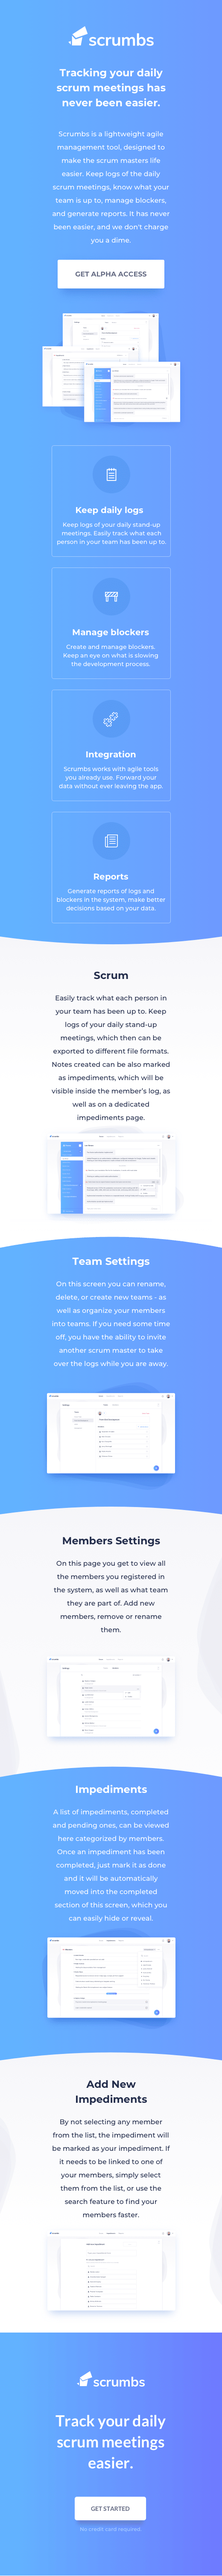
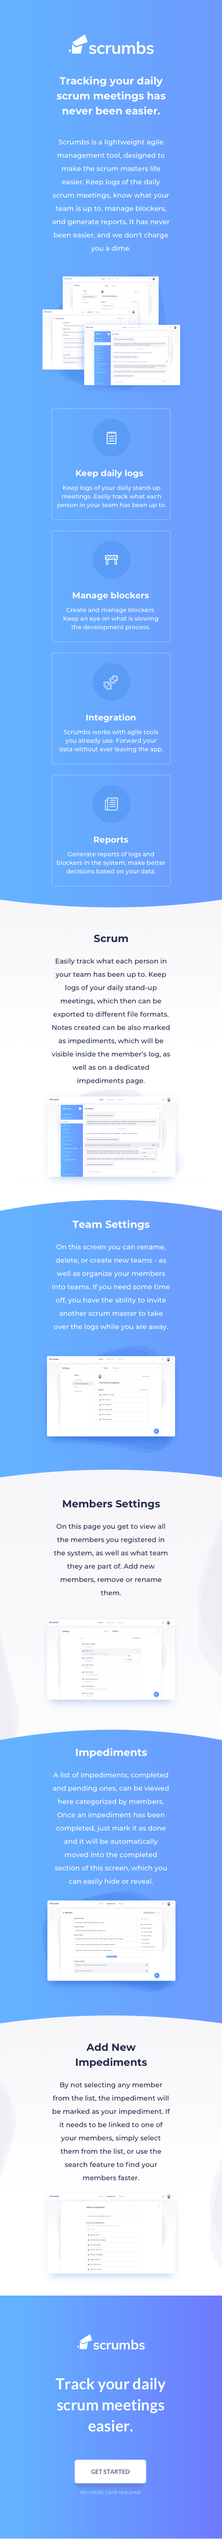
- Project arrows adjusted for mobile: next/previous arrows are visible now - Scrum project images modified: removed Get early access button

Changed region(s): [[0.0, 0.0, 1.0, 0.9681]]

diff --git a/public/css/scrumbs-stylesheet.css b/public/css/scrumbs-stylesheet.css
@@ -5,7 +5,9 @@
 .previous{left:-70px;position:fixed;transition:left ease-in-out .2s,opacity ease-in-out .2s}
 .previous:hover{left:-50px;opacity:.4;background-image:url("../public/images/arrow-left.svg");background-repeat:no-repeat;background-size:15px;background-position-x:60px;background-position-y:38px}
 .arrow-left{width:15px;margin-left:20px;margin-top:38px}.scrumbs-presentation{background:url("../public/project-images/Scrumbs-1229px-2880px.png") no-repeat top center;width:100%;height:7054px}
-@media only screen and (max-width:1230px){.scrumbs-presentation{background:url("../public/project-images/Scrumbs-1024px-1230px.png") no-repeat top center;height:6468px}
-}@media only screen and (max-width:860px){.scrumbs-presentation{background:url("../public/project-images/Scrumbs-860px.png") no-repeat top center;height:6084px}
-}@media only screen and (max-width:519px){.scrumbs-presentation{background:url("../public/project-images/Scrumbs - 520px.png") no-repeat top center;height:6010px}
+@media only screen and (max-width:1230px){.scrumbs-presentation{background:url("../public/project-images/Scrumbs-1024px-1230px.png") no-repeat top center;height:6318px}
+}@media only screen and (max-width:860px){.scrumbs-presentation{background:url("../public/project-images/Scrumbs-860px.png") no-repeat top center;height:5968px}
+.next{right:-70px;opacity:.2;background-image:url(../public/images/arrow-right.svg);background-repeat:no-repeat;background-size:10px;background-position-x:12px;background-position-y:43px}
+.previous{left:-70px;opacity:.2;background-image:url(../public/images/arrow-left.svg);background-repeat:no-repeat;background-size:10px;background-position-x:78px;background-position-y:43px}
+}@media only screen and (max-width:519px){.scrumbs-presentation{background:url("../public/project-images/Scrumbs - 520px.png") no-repeat top center;height:5924px}
 }

diff --git a/resources/css/scrumbs-stylesheet.css b/resources/css/scrumbs-stylesheet.css
@@ -71,20 +71,40 @@
 @media only screen and (max-width: 1230px) {
     .scrumbs-presentation {
         background: url("../public/project-images/Scrumbs-1024px-1230px.png") no-repeat top center;
-        height: 6468px;
+        height: 6318px;
     }
 }
 
 @media only screen and (max-width: 860px) {
     .scrumbs-presentation {
         background: url("../public/project-images/Scrumbs-860px.png") no-repeat top center;
-        height: 6084px;
+        height: 5968px;
+    }
+
+    .next {
+        right: -70px;
+        opacity: 0.2;
+        background-image: url(../public/images/arrow-right.svg);
+        background-repeat: no-repeat;
+        background-size: 10px;
+        background-position-x: 12px;
+        background-position-y: 43px;
+    }
+
+    .previous {
+        left: -70px;
+        opacity: .2;
+        background-image: url(../public/images/arrow-left.svg);
+        background-repeat: no-repeat;
+        background-size: 10px;
+        background-position-x: 78px;
+        background-position-y: 43px;
     }
 }
 
 @media only screen and (max-width: 519px) {
     .scrumbs-presentation {
         background: url("../public/project-images/Scrumbs - 520px.png") no-repeat top center;
-        height: 6010px;
+        height: 5924px;
     }
 }

diff --git a/public/css/plantcare-stylesheet.css b/public/css/plantcare-stylesheet.css
@@ -7,5 +7,7 @@
 .arrow-left{width:15px;margin-left:20px;margin-top:38px}.ahead-presentation{background:url("../public/project-images/PlantCare-1229px-2880px.png") no-repeat top center;width:100%;height:7241px}
 @media only screen and (max-width:1230px){.ahead-presentation{background:url("../public/project-images/PlantCare-1024px-1230px.png") no-repeat top center;height:6335px}
 }@media only screen and (max-width:860px){.ahead-presentation{background:url("../public/project-images/PlantCare-860px.png") no-repeat top center;height:5541px}
-}@media only screen and (max-width:519px){.ahead-presentation{background:url("../public/project-images/plantCare - 519pxpng.png") no-repeat top center;height:4557px}
+.next{right:-70px;opacity:.2;background-image:url(../public/images/arrow-right.svg);background-repeat:no-repeat;background-size:10px;background-position-x:12px;background-position-y:43px}
+.previous{left:-70px;opacity:.2;background-image:url(../public/images/arrow-left.svg);background-repeat:no-repeat;background-size:10px;background-position-x:78px;background-position-y:43px}
+}@media only screen and (max-width:519px){.ahead-presentation{background:url("../public/project-images/plantCare - 519px.png") no-repeat top center;height:4557px}
 }

diff --git a/public/css/ventana-stylesheet.css b/public/css/ventana-stylesheet.css
@@ -7,6 +7,8 @@
 .arrow-left{width:15px;margin-left:20px;margin-top:38px}.ahead-presentation{background:url("../public/project-images/Ventana-1236px-2880px.png") no-repeat top center;width:100%;height:10021px}
 @media only screen and (max-width:1230px){.ahead-presentation{background:url("../public/project-images/Ventana-1024px-1230px.png") no-repeat top center;height:8440px}
 }@media only screen and (max-width:900px){.ahead-presentation{background:url("../public/project-images/Ventana-860px.png") no-repeat top center;height:7784px}
+.next{right:-70px;opacity:.2;background-image:url(../public/images/arrow-right.svg);background-repeat:no-repeat;background-size:10px;background-position-x:12px;background-position-y:43px}
+.previous{left:-70px;opacity:.2;background-image:url(../public/images/arrow-left.svg);background-repeat:no-repeat;background-size:10px;background-position-x:78px;background-position-y:43px}
 }@media only screen and (max-width:680px){.ahead-presentation{background:url("../public/project-images/Ventana-480.png") no-repeat top center;height:7922px}
 }@media only screen and (max-width:440px){.ahead-presentation{background:url("../public/project-images/Ventana-320.png") no-repeat top center;height:8094px}
 }

diff --git a/public/css/borneo-stylesheet.css b/public/css/borneo-stylesheet.css
@@ -7,6 +7,8 @@
 .arrow-left{width:15px;margin-left:20px;margin-top:38px}.ahead-presentation{background:url("../public/project-images/Borneo-1236px-2880px.png") no-repeat top center;width:100%;height:7458px}
 @media only screen and (max-width:1230px){.ahead-presentation{background:url("../public/project-images/Borneo-1024px-1230px.png") no-repeat top center;height:7564px}
 }@media only screen and (max-width:860px){.ahead-presentation{background:url("../public/project-images/Borneo-860px.png") no-repeat top center;height:7264px}
+.next{right:-70px;opacity:.2;background-image:url(../public/images/arrow-right.svg);background-repeat:no-repeat;background-size:10px;background-position-x:12px;background-position-y:43px}
+.previous{left:-70px;opacity:.2;background-image:url(../public/images/arrow-left.svg);background-repeat:no-repeat;background-size:10px;background-position-x:78px;background-position-y:43px}
 }@media only screen and (max-width:670px){.ahead-presentation{background:url("../public/project-images/Borneo-670px.png") no-repeat top center;height:7524px}
 }@media only screen and (max-width:420px){.ahead-presentation{background:url("../public/project-images/Borneo-420px.png") no-repeat top center;height:6997px}
 }

diff --git a/public/css/scrumbs-landing-stylesheet.css b/public/css/scrumbs-landing-stylesheet.css
@@ -7,5 +7,7 @@
 .arrow-left{width:15px;margin-left:20px;margin-top:38px}.scrumbs-landing-presentation{background:url("../public/project-images/Scrumbs-Landing-1229px-2880px.png") no-repeat top center;width:100%;height:7998px}
 @media only screen and (max-width:1230px){.scrumbs-landing-presentation{background:url("../public/project-images/Scrumbs-Landing-1024px-1230px.png") no-repeat top center;height:6012px}
 }@media only screen and (max-width:860px){.scrumbs-landing-presentation{background:url("../public/project-images/Scrumbs-Landing-860px.png") no-repeat top center;height:5098px}
+.next{right:-70px;opacity:.2;background-image:url(../public/images/arrow-right.svg);background-repeat:no-repeat;background-size:10px;background-position-x:12px;background-position-y:43px}
+.previous{left:-70px;opacity:.2;background-image:url(../public/images/arrow-left.svg);background-repeat:no-repeat;background-size:10px;background-position-x:78px;background-position-y:43px}
 }@media only screen and (max-width:519px){.scrumbs-landing-presentation{background:url("../public/project-images/Scrumbs-Landing-520px.png") no-repeat top center;height:3266px}
 }

diff --git a/public/css/ahead-stylesheet.css b/public/css/ahead-stylesheet.css
@@ -7,5 +7,7 @@
 .arrow-left{width:15px;margin-left:20px;margin-top:38px}.ahead-presentation{background:url("../public/project-images/Ahead-1366px-2880px.png") no-repeat top center;width:100%;height:7820px}
 @media only screen and (max-width:1230px){.ahead-presentation{background:url("../public/project-images/Ahead-1024px-1230px.png") no-repeat top center;height:6730px}
 }@media only screen and (max-width:860px){.ahead-presentation{background:url("../public/project-images/Ahead - 860px.png") no-repeat top center;height:6178px}
+.next{right:-70px;opacity:.2;background-image:url(../public/images/arrow-right.svg);background-repeat:no-repeat;background-size:10px;background-position-x:12px;background-position-y:43px}
+.previous{left:-70px;opacity:.2;background-image:url(../public/images/arrow-left.svg);background-repeat:no-repeat;background-size:10px;background-position-x:78px;background-position-y:43px}
 }@media only screen and (max-width:519px){.ahead-presentation{background:url("../public/project-images/Ahead - 519px.png") no-repeat top center;height:5344px}
 }

diff --git a/resources/css/plantcare-stylesheet.css b/resources/css/plantcare-stylesheet.css
@@ -75,11 +75,31 @@
         background: url("../public/project-images/PlantCare-860px.png") no-repeat top center;
         height: 5541px;
     }
+
+    .next {
+        right: -70px;
+        opacity: 0.2;
+        background-image: url(../public/images/arrow-right.svg);
+        background-repeat: no-repeat;
+        background-size: 10px;
+        background-position-x: 12px;
+        background-position-y: 43px;
+    }
+
+    .previous {
+        left: -70px;
+        opacity: .2;
+        background-image: url(../public/images/arrow-left.svg);
+        background-repeat: no-repeat;
+        background-size: 10px;
+        background-position-x: 78px;
+        background-position-y: 43px;
+    }
 }
 
 @media only screen and (max-width: 519px) {
     .ahead-presentation {
-        background: url("../public/project-images/plantCare - 519pxpng.png") no-repeat top center;
+        background: url("../public/project-images/plantCare - 519px.png") no-repeat top center;
         height: 4557px;
     }
 }

diff --git a/resources/css/scrumbs-landing-stylesheet.css b/resources/css/scrumbs-landing-stylesheet.css
@@ -80,6 +80,26 @@
         background: url("../public/project-images/Scrumbs-Landing-860px.png") no-repeat top center;
         height: 5098px;
     }
+
+    .next {
+        right: -70px;
+        opacity: 0.2;
+        background-image: url(../public/images/arrow-right.svg);
+        background-repeat: no-repeat;
+        background-size: 10px;
+        background-position-x: 12px;
+        background-position-y: 43px;
+    }
+
+    .previous {
+        left: -70px;
+        opacity: .2;
+        background-image: url(../public/images/arrow-left.svg);
+        background-repeat: no-repeat;
+        background-size: 10px;
+        background-position-x: 78px;
+        background-position-y: 43px;
+    }
 }
 
 @media only screen and (max-width: 519px) {

diff --git a/resources/css/ahead-stylesheet.css b/resources/css/ahead-stylesheet.css
@@ -80,6 +80,26 @@
         background: url("../public/project-images/Ahead - 860px.png") no-repeat top center;
         height: 6178px;
     }
+
+    .next {
+        right: -70px;
+        opacity: 0.2;
+        background-image: url(../public/images/arrow-right.svg);
+        background-repeat: no-repeat;
+        background-size: 10px;
+        background-position-x: 12px;
+        background-position-y: 43px;
+    }
+
+    .previous {
+        left: -70px;
+        opacity: .2;
+        background-image: url(../public/images/arrow-left.svg);
+        background-repeat: no-repeat;
+        background-size: 10px;
+        background-position-x: 78px;
+        background-position-y: 43px;
+    }
 }
 
 @media only screen and (max-width: 519px) {

diff --git a/resources/css/ventana-stylesheet.css b/resources/css/ventana-stylesheet.css
@@ -81,6 +81,26 @@
         background: url("../public/project-images/Ventana-860px.png") no-repeat top center;
         height: 7784px;
     }
+
+    .next {
+        right: -70px;
+        opacity: 0.2;
+        background-image: url(../public/images/arrow-right.svg);
+        background-repeat: no-repeat;
+        background-size: 10px;
+        background-position-x: 12px;
+        background-position-y: 43px;
+    }
+
+    .previous {
+        left: -70px;
+        opacity: .2;
+        background-image: url(../public/images/arrow-left.svg);
+        background-repeat: no-repeat;
+        background-size: 10px;
+        background-position-x: 78px;
+        background-position-y: 43px;
+    }
 }
 
 @media only screen and (max-width: 680px) {

diff --git a/resources/css/borneo-stylesheet.css b/resources/css/borneo-stylesheet.css
@@ -80,6 +80,26 @@
         background: url("../public/project-images/Borneo-860px.png") no-repeat top center;
         height: 7264px;
     }
+
+    .next {
+        right: -70px;
+        opacity: 0.2;
+        background-image: url(../public/images/arrow-right.svg);
+        background-repeat: no-repeat;
+        background-size: 10px;
+        background-position-x: 12px;
+        background-position-y: 43px;
+    }
+
+    .previous {
+        left: -70px;
+        opacity: .2;
+        background-image: url(../public/images/arrow-left.svg);
+        background-repeat: no-repeat;
+        background-size: 10px;
+        background-position-x: 78px;
+        background-position-y: 43px;
+    }
 }
 
 @media only screen and (max-width: 670px) {
